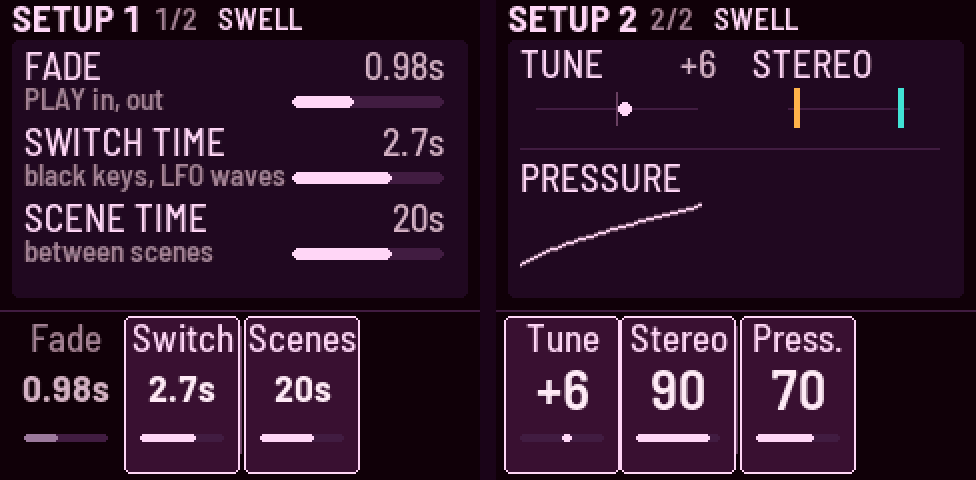
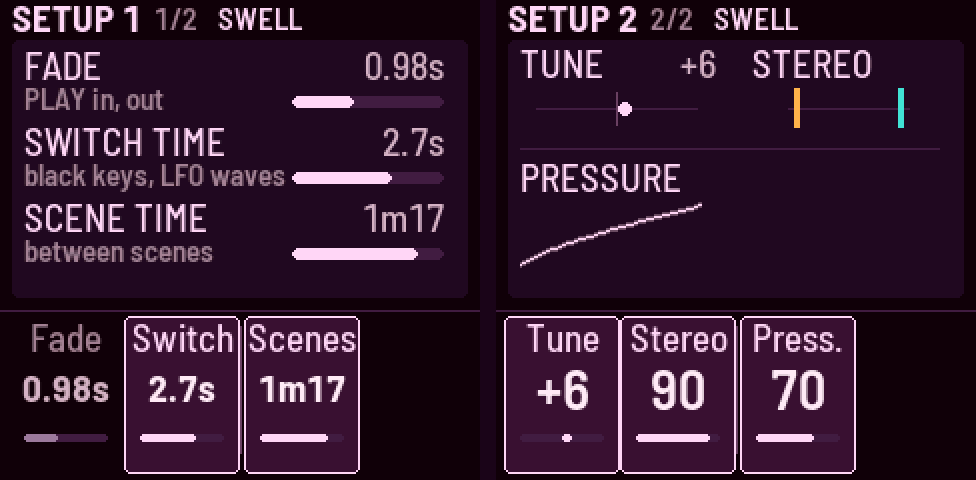
ARP as the other page buttons, the types go round, black keys during a scene
From Evan's notes testing #38 / #39 on the FM-1:
- ARP: a tap opens the Swell page, a tap there is the Swell on / off, a hold peeks (two quick taps
  are gone). The Swell page draws one bar, without "the swell, over two bars".
- The Delay and Reverb type knobs go round both ways, as the LFO waves do.
- Gesture time (PRESETS) turns as the speed it shows: right faster.
- Scene time starts at ~15 s (was ~4 s) on a new FM-1 or a reset.
- A black key pressed while a scene is on its way is the hand's, as a turned knob's value is: the
  scene used to rewrite it each frame until it landed.

Changed region(s): [[0.3689, 0.4062, 0.4611, 0.5625], [0.2459, 0.7812, 0.3689, 0.8438], [0.3074, 0.9062, 0.3381, 0.9375]]

diff --git a/web/emu/index.html b/web/emu/index.html
@@ -372,7 +372,7 @@ kbd { font: 500 .85em var(--mono); background: var(--card); border: 1px solid va
     <h3>Gestures <span class="g-sub">the top four white keys: several settings at once, on top of your sound</span></h3>
     <dl class="acts">
       <div><dt>Weight · Shift · Clean · Wash</dt><dd>The top four <span class="cap white">white keys</span>: hold to bring in, let go and it leaves as slowly as you held it; tap: all the way, to stay</dd></div>
-      <div><dt>Gesture time</dt><dd><span class="cap">PRESETS</span>: every gesture faster or slower, even while it moves</dd></div>
+      <div><dt>Gesture time</dt><dd><span class="cap">PRESETS</span>: every gesture faster (turn right) or slower (left), even while it moves</dd></div>
       <div><dt>Shift’s move</dt><dd><span class="cap">SEQ</span> twice (Pitch moves), <span class="cap">KNOB 1</span>: a fifth down to a fifth up</dd></div>
     </dl>
   </div>
@@ -478,7 +478,7 @@ kbd { font: 500 .85em var(--mono); background: var(--card); border: 1px solid va
       <div class="pblock">
         <div class="g-btn">ARP</div>
         <div class="pstack">
-        <p class="pnote combos lead"><span>Swell on · off: tap <span class="cap">ARP</span></span><span>See the Swell menu: tap <span class="cap">ARP</span> twice</span></p>
+        <p class="pnote combos lead"><span>See the Swell menu: tap <span class="cap">ARP</span></span><span>Swell on · off: tap <span class="cap">ARP</span> again</span></p>
         <div class="g-page"><i>Swell</i><span class="k both"><span class="sr">Knob 1: </span>Rate</span><span class="k both"><span class="sr">Knob 2: </span>Depth</span><span class="k both"><span class="sr">Knob 3: </span>Shape<small>swell → gate</small></span><span class="k both"><span class="sr">Knob 4: </span>Swing</span></div>
         </div>
       </div>
@@ -741,9 +741,9 @@ function hit(c, cls) {
 const TIP = { FX: "Delay: drive, time, repeats, mix (again: Reverb: length to Inf, damp, mix; again: Types: the delay's, the reverb's)", SEL: "Hold while turning: fine (pitch in cents, cutoff and resonance in tenths); with a top white key: a bank (A, B, C, Presets); with PLAY: drone II alone",
   ENV: "Tone 1: noise and its colour, white to pink (again: Life: character, feedback, age, drift); hold to peek", LFO: "LFO depths: each drone's osc and filter depth; the keys pick the routing (again: Mods: rate mod, mod by, X-mod amount, delay LFO)",
   EDIT: "Osc: X-Wave, pulse width (again: Sub · Drive: osc mix, drive); hold to peek", GLO: "Setup 1: fade, switch time, scene time (again: Setup 2: tune, stereo width, pressure)",
-  HOME: "Play 1: pitch, cutoff (again: Play 2: levels, resonance)", SAVE: "Save; hold it first, then tap a white key: store a scene (in bank A, B or C)", ARP: "Swell: tap on / off, hold to peek at its page, tap twice to stay on it", SEQ: "Partner: interval, detune (again: Pitch moves: Shift's move, pitch glide, Wander, its scale)",
+  HOME: "Play 1: pitch, cutoff (again: Play 2: levels, resonance)", SAVE: "Save; hold it first, then tap a white key: store a scene (in bank A, B or C)", ARP: "Swell: tap for its page, tap again there: on / off; hold to peek", SEQ: "Partner: interval, detune (again: Pitch moves: Shift's move, pitch glide, Wander, its scale)",
   PLAY: "Drones in / out (with SEL: drone II alone)", REC: "Motion loop: tap to record knob moves, again to loop, again to stop", "OCT-": "LFO Wave I: tap for the next shape (with SEL: the one before)", "OCT+": "LFO Wave II: tap for the next shape (with SEL: the one before)",
-  SELECT: "LFO rate", PRESETS: "Gesture time: every gesture faster or slower", ALGORITHM: "Movement: every LFO depth together",
+  SELECT: "LFO rate", PRESETS: "Gesture time: every gesture faster (right) or slower (left)", ALGORITHM: "Movement: every LFO depth together",
   KNOB1: "Drone I", KNOB2: "Drone I", KNOB3: "Drone II", KNOB4: "Drone II", MASTER: "Volume" };
 for (const [n, c] of [...Object.entries(buttons), ...Object.entries(knobs)]) if (TIP[n]) c.g.setAttribute("aria-description", TIP[n]);
 // the keys: the black ones as switches (and what they do on the LFO pages), the white ones as scenes

diff --git a/firmware/src/app/ui.c b/firmware/src/app/ui.c
@@ -82,7 +82,7 @@ static const struct {
     uint8_t btn, first, n;
 } PAGE_BTN[] = {{B_HOME, V_PLAY, 2}, {B_ENV, V_TONE, 2}, {B_EDIT, V_OSC, 2}, {B_LFO, V_LFO, 2},
                 {B_SEQ, V_PARTNER, 2}, {B_GLO, V_SETUP, 2}, {B_FX, V_FX, 3},
-                {B_ARP, V_PULSE, 1}};                                    /* ARP: a tap toggles */
+                {B_ARP, V_PULSE, 1}};                                    /* ARP: on its page, a tap toggles */
 #define NPAGE_BTN (sizeof PAGE_BTN / sizeof PAGE_BTN[0])
 #define HOLD_MS 400u                   /* a page button held this long (or a knob turned) is a peek */
 
@@ -143,8 +143,6 @@ static struct {
     uint32_t saved_t;                  /* the last autosave tried */
     int8_t save_q;                     /* a save waiting for the dip (playing): -2 none, -1 the sound, N scene N */
     uint32_t save_t;                   /* ... asked then */
-    uint32_t arp_t;                    /* the last ARP tap (two quick taps: stay on the Swell page) */
-    uint8_t arp_pend;                  /* ... its on / off still to come (if no second tap) */
     uint8_t page_last[8];              /* each page button's page last shown (0: its first): opened again there */
     uint32_t sel_t;                    /* when SEL went down (held 0.4 s: the black keys' map) */
     int8_t km_key;                     /* the black key touched while SEL is held (named, not switched), or -1 */
@@ -378,7 +376,13 @@ static void knob_turn(int i, int32_t e)
         pitch_turn(k.g, p, EN_K1 + i, e);
     else if (dr_param_info(p)->hi - dr_param_info(p)->lo > 24)
         cont_turn(p, EN_K1 + i, e);
-    else {
+    else if (p == P_DLY_TYPE || p == P_REV_TYPE) {     /* a type goes round both ways, as the LFO waves do (Evan,
+                                                        * 2026-10-25) */
+        const dr_param_t *in = dr_param_info(p);
+        int n = in->hi - in->lo + 1, v = (proj.par[p] - in->lo + (e > 0 ? 1 : -1)) % n;
+        param_set(p, in->lo + (v < 0 ? v + n : v));
+        loop_note(p, proj.par[p], 0);
+    } else {
         param_set(p, proj.par[p] + accel(EN_K1 + i, e, dr_param_info(p)->hi - dr_param_info(p)->lo));
         loop_note(p, proj.par[p], 0);
     }
@@ -426,7 +430,7 @@ static void link_set(int on)
     param_set(P_PLINK, on);
 }
 
-static void sw_toggle(sw_t w)
+static void sw_flip(sw_t w)
 {
     static const char *const DR[2] = {"I ", "II "};
     static const char *const WAVES[4] = {"OFF", "WAVE I", "WAVE II", "WAVES I+II"};
@@ -472,6 +476,21 @@ static void sw_toggle(sw_t w)
     say_c(a, st, w.s == S_LFORESET || w.s == S_DTAP ? RGB(183, 145, 255) : w.g ? RGB(69, 227, 211) : RGB(255, 176, 74));
 }
 
+static void hands_on(int p);
+
+/* a black key: what it changes is a hand's, as a turned knob's is, so a scene on its way leaves it alone (Evan,
+ * 2026-10-25: during a switch the Sub key showed its next step but held until the scene landed) */
+static void sw_toggle(sw_t w)
+{
+    static int16_t was[DR_NPARAMS];
+    int k;
+    memcpy(was, proj.par, sizeof was);
+    sw_flip(w);
+    for (k = 0; k < DR_NPARAMS; k++)
+        if (proj.par[k] != was[k])
+            hands_on(k);
+}
+
 /* ------------------------------------------------------------ buttons --- */
 static int on_pages(int i) { return ui.view >= PAGE_BTN[i].first && ui.view < PAGE_BTN[i].first + PAGE_BTN[i].n; }
 static void set_view(int v)
@@ -507,15 +526,6 @@ static void page_down(int b)
     if (!ui.hold_cycle)
         set_view(PAGE_BTN[i].first + (b == B_HOME ? 0 : ui.page_last[i]));
 }
-#define ARP_TAPS_MS 350u               /* two ARP taps this close: the Swell's page */
-static void arp_run(void)                              /* each frame: a lone ARP tap, once it's alone */
-{
-    if (ui.arp_pend && plat_ms() - ui.arp_t >= ARP_TAPS_MS) {
-        ui.arp_pend = 0;
-        param_set(P_PULSE, !proj.par[P_PULSE]);
-        say("SWELL", proj.par[P_PULSE] ? "ON" : "OFF");
-    }
-}
 /* let go: after a hold (or a knob turned while held), back where it was; after a tap, stay (or step on) */
 static void page_up(int b)
 {
@@ -523,23 +533,11 @@ static void page_up(int b)
     if (ui.hold_btn != b)
         return;
     peek = ui.hold_turned || plat_ms() - ui.hold_t >= HOLD_MS;
-    if (b == B_ARP) {                                  /* ARP: a tap is the pulse on / off; its page only */
-        if (!peek) {                                   /* a tap: the swell on / off, once no second tap */
-            uint32_t now = plat_ms();                  /* follows; two quick taps: its page, to stay, the */
-            if (ui.arp_pend && now - ui.arp_t < ARP_TAPS_MS) {   /* Swell untouched (the review: it dipped) */
-                ui.arp_pend = 0;
-                set_view(V_PULSE);
-                ui.hold_btn = -1;
-                say("SWELL", "PAGE");
-                return;
-            }
-            ui.arp_t = now;
-            ui.arp_pend = 1;                           /* arp_run switches it */
-        }
-        if (!ui.hold_cycle)
-            set_view(ui.hold_from);
-        ui.hold_btn = -1;
-        return;
+    if (b == B_ARP && !peek && ui.hold_cycle) {        /* ARP, as the other page buttons (Evan, 2026-10-24): a tap
+                                                        * opens the Swell page (landing never switches it), a tap
+                                                        * on it is the Swell on / off, a hold peeks */
+        param_set(P_PULSE, !proj.par[P_PULSE]);
+        say("SWELL", proj.par[P_PULSE] ? "ON" : "OFF");
     }
     if (peek) {
         if (!ui.hold_cycle)
@@ -1089,14 +1087,15 @@ static float mtime_k(void)                             /* GESTURE TIME: the gest
 {
     return fm_exp2f(((float)proj.mtime - 50.0f) * 0.0664386f);
 }
-static void mtime_turn(int32_t e)                      /* PRESETS: Gesture time */
+static void mtime_turn(int32_t e)                      /* PRESETS: Gesture time, shown as a speed (x0.1 .. x10):
+                                                        * right is faster (Evan, 2026-10-24) */
 {
-    int v = (int)proj.mtime + (int)e;
+    int v = (int)proj.mtime - (int)e;
     float k;
     char *q;
     proj.mtime = (uint8_t)(v < 0 ? 0 : v > 100 ? 100 : v);
     mark_dirty();
-    k = mtime_k();
+    k = 1.0f / mtime_k();
     scopy(ui.glab[0], "GESTURE TIME");
     q = ui.glab[1];
     *q++ = 'x';
@@ -1247,6 +1246,7 @@ static void input(void)
         } else if (w.s == S_LFORESET && (keys >> BLACK_K[i] & 1u) && !ui.rst_done &&
                    plat_ms() - ui.rst_t >= HOLD_MS + 100u) {
             int on = !proj.par[P_LFO_LOCK];            /* held: the LFO locked to the pulse's bars, or free */
+            hands_on(P_LFO_LOCK);
             param_set(P_LFO_LOCK, on);
             ui.scene_at = -1;
             if (on && !proj.par[P_PULSE])              /* (shorter: "LOCKED (SWELL OFF)" ran off the screen) */
@@ -1806,29 +1806,22 @@ static void pic_pulse(int32_t y0)
     uint16_t c = on ? K_PULSE : K_FAINT;
     char t[16];
     for (i = 0; i < n; i++)
-        y[i] = (int16_t)(top + h - (int32_t)(dr_pulse_wave(4.0f * (float)i / (float)(n - 1)) * (float)h));
+        y[i] = (int16_t)(top + h - (int32_t)(dr_pulse_wave(2.0f * (float)i / (float)(n - 1)) * (float)h));
     cv_rect(12, top + h, 208, 1, K_GRID);
-    for (i = 1; i < 4; i++)                    /* the beats */
-        cv_rect(12 + 52 * i, top, 1, h, K_GRID);
+    cv_rect(12 + 104, top, 1, h, K_GRID);      /* one bar, its two beats (Evan, 2026-10-24: two bars showed the
+                                                * same twice) */
     plot(12, 2, y, n, c);
-    if (on) {                                  /* now: a dot on the line, across both bars (it went over */
-        static float last;                     /* the first only, then jumped back) */
-        static uint8_t odd;
+    if (on) {                                  /* now: a dot on the line */
         float ph = dr_pulse_ph;
-        int32_t px, py;
-        if (ph < last - 1.0f)                  /* a new bar: the other half of the picture */
-            odd ^= 1u;
-        last = ph;
-        px = 12 + (int32_t)((ph + 2.0f * (float)odd) * 52.0f);
-        py = top + h - (int32_t)(dr_pulse_wave(ph) * (float)h);
+        int32_t px = 12 + (int32_t)(ph * 104.0f), py = top + h - (int32_t)(dr_pulse_wave(ph) * (float)h);
         cv_round(px - 3, py - 3, 7, 7, 3, K_TEXT);
     }
     dr_param_text(P_PULSE_RATE, proj.par[P_PULSE_RATE], t);
     cv_text(12, y0 + 3, &FONT_S, t, c);
     text_r(222, y0 + 3, on ? "ON" : "OFF", on ? K_PULSE : K_DIM);
-    text_c(120, y0 + PAN_H - 18, &FONT_S,
-           !on ? "tap ARP to start the swell" : proj.par[P_LFO_LOCK] ? "the LFO restarts each bar" : "the swell, over two bars",
-           proj.par[P_LFO_LOCK] && on ? K_LFO : K_DIM);
+    if (!on || proj.par[P_LFO_LOCK])
+        text_c(120, y0 + PAN_H - 18, &FONT_S, !on ? "tap ARP to start the swell" : "the LFO restarts each bar",
+               on ? K_LFO : K_DIM);
 }
 
 /* LFO: the routing as a picture. Each wave on the left (I above, II below: one cycle of its shape, a dot
@@ -2771,7 +2764,6 @@ void ui_frame(void)
     input();
     press_run();
     gesture_run();
-    arp_run();
     scene_morph();
     autosave();
     if (!ui.splash_done) {

diff --git a/firmware/src/dsp/drone.c b/firmware/src/dsp/drone.c
@@ -48,7 +48,7 @@ static const dr_param_t PARAMS[DR_NPARAMS] = {
     {"Time", 0, 100, 50}, {"Repeats", 0, 100, 50}, {"Dly mix", 0, 100, 25}, {"Rev mix", 0, 100, 35},
     {"Type", 0, DR_NREV - 1, 2}, {"Dly LFO", DR_LFO_I, DR_LFO_BOTH, DR_LFO_I}, {"Dly LFO", -100, 100, 20},
     {"LFO lock", 0, 1, 0}, {"Rate mod", -100, 100, 0}, {"Mod by", DR_LFO_I, DR_LFO_BOTH, DR_LFO_II},
-    {"Switch time", 0, 100, 47}, {"Scene time", 0, 100, 46}, {"II out", 0, 1, 0}, {"Speaker", 0, 100, 0},
+    {"Switch time", 0, 100, 47}, {"Scene time", 0, 100, 63}, {"II out", 0, 1, 0}, {"Speaker", 0, 100, 0},
     {"Pitch lock", 0, 1, 1}, {"Movement", 0, 100, 50}, {"Feedback", 0, 100, 0}, {"Character", 0, 100, 0},
     {"Wander", 0, 100, 0}, {"Age", 0, 100, 0}, {"Shift move", 0, 2 * DR_SHIFT_MID, 2 * DR_SHIFT_MID}, {"Scale", 0, DR_NWSCALE - 1, 0},
     {"D5 depth", 0, 100, 70}, {"E5 depth", 0, 100, 100}, {"F5 depth", 0, 100, 100}, {"G5 depth", 0, 100, 70},

diff --git a/README.md b/README.md
@@ -146,9 +146,9 @@ parts come in one after another, and go in their own order when you let go. Scen
   hold; **let go** and it goes, over as long as you held it (hold 2 s, it leaves in 2 s; hold 10 s, it drifts out
   over 10 s). **Tap** it (a press under half a second) and it goes all the way and stays; tap again and it goes. **SEL held as you let go** keeps
   it where it is. Its key glows dimly, and lights as it comes in.
-- **PRESETS is Gesture time**: it speeds up or slows down every gesture, coming in and going out, from 10 times faster
-  to 10 times slower (the middle: each gesture's own time: Weight 2.8 s, Shift 3.9 s, the others 3.3 s). Turn it
-  while a gesture moves to change it on the way.
+- **PRESETS is Gesture time**: it speeds up or slows down every gesture, coming in and going out: right is faster, up
+  to 10 times (x10), left slower, down to a tenth (x0.1). The middle is each gesture's own time: Weight 2.8 s, Shift
+  3.9 s, the others 3.3 s. Turn it while a gesture moves to change it on the way.
 - **The LFOs step aside**: while a gesture is in, the LFO that moves the same thing eases off (the filter LFO for
   Weight's cutoff, the oscillator LFO for Shift's pitch), so
   a high **Movement** doesn't wobble what the gesture is doing. **Wash** also eases the filter LFOs to a third, so
@@ -168,7 +168,7 @@ knob you're turning.
 | **OCT− / OCT+** | the LFO's **Wave I** / **Wave II**: tap for the next shape, round and round; **SEL + OCT** for the one before. Each light pulses with its wave |
 | **SAVE** | save the sound, at once. While the drone plays, the sound dips out and back over about 50 ms around the write; SAVE glows dimly while something isn't written yet |
 | **SEL** (hold) | fine: a pitch knob moves in single cents, cutoff and resonance in tenths |
-| **ARP** (tap) | the Swell on or off: both drones chopped in time, and the ARP light breathes with it. Hold ARP to peek at its page; tap twice quickly to stay on it (the Swell isn't touched then: a single tap switches it a moment later, once no second tap comes) |
+| **ARP** (tap) | the Swell page, as the other page buttons open theirs (landing on it switches nothing). On the page, a tap switches the Swell on or off: both drones chopped in time, and the ARP light breathes with it. Hold ARP to peek at the page from anywhere, to set the Swell before you start it |
 | **REC** | tap to record your knob moves, tap to loop them, tap to stop (up to 5 minutes, the time shown by REC in the top bar; all four knobs turning fast for minutes fills it sooner, and it starts looping there, "FULL"; each pass glides back to the start) |
 
 ### Pages
@@ -279,13 +279,13 @@ glides: a slow turn is a smooth sweep, never steps; turn faster to go further. T
 
 #### Swell · ARP
 
-<img src="docs/img/page-swell.png" width="244" alt="The Swell page: the swell's shape over two bars">
+<img src="docs/img/page-swell.png" width="244" alt="The Swell page: the swell's shape over a bar">
 
 | Page | KNOB 1 | KNOB 2 | KNOB 3 | KNOB 4 |
 |---|---|---|---|---|
 | Swell | rate | depth | shape | swing |
 
-- Tap ARP to start or stop the Swell; tap it twice to see this page.
+- Tap ARP for this page; tap it again here to start or stop the Swell. The picture shows a bar of it, and a dot where it is.
 - **The Swell** runs from a 33-second breath to a buzz (the starting sound has it on: a slow breath, 40 deep).
 - **Depth** is how far it dips, in dB (down to −30; all the way, silence). **Shape** firms the breath up into
   a pulse, and only at the top into a hard gate.
@@ -308,11 +308,12 @@ glides: a slow turn is a smooth sweep, never steps; turn faster to go further. T
   echoes come at three-quarters of the left's time), **Ping-pong** (the echoes bounce left and right),
   **Clean** (bright, with no wow, so a just-tuned drone stays still), **Grain** (Tape whose time its own echoes
   shake: grainy, metallic, wilder as they ring), **Self** (Tape whose time stretches as its echoes get louder: loud
-  echoes sag and wobble, and a runaway lurches). Changing type glides.
+  echoes sag and wobble, and a runaway lurches). Changing type crossfades the echoes, without bending their pitch.
+  The type knobs go round both ways: past Self comes Tape again.
 - **Time** is 70–450 ms, and turning it bends the echoes' pitch, as tape does. **Repeats** past about 85 runs
   away into self-oscillation ("runaway" on the screen), held by a soft clip.
 - **Reverb types**: **Room**, **Hall**, **Cathedral** (the largest), **Chorus hall** (a hall that shimmers).
-  They differ in size, distance and movement; changing type glides.
+  They differ in size, distance and movement; changing type crossfades, and the knob goes round both ways.
 - **Length** is how long the tail takes to die away, 0.3 to 40 seconds. At the top, **Inf**, it never does: a
   freeze. Press PLAY to stop and the freeze lets go, over about twice the Fade time.
 - **Damp** darkens the tail (out at Inf, so a freeze holds what's in it).
@@ -331,7 +332,7 @@ Everything on GLO belongs to the FM-1 and the room, not to a sound: scenes don't
 
 - **Fade** is how long PLAY takes (up to 60 s); **Switch time** is how long a black key or a new LFO wave (OCT) takes
   to move the sound to its new setting (0.02–30 s); **Scene time** is how long every scene move takes: a tap, a
-  crossfade pressed all the way in at once, and the way back (0.1 s to 5 minutes; about 4 s to start).
+  crossfade pressed all the way in at once, and the way back (0.1 s to 5 minutes; about 15 s to start).
 - **Tune** moves everything up or down by up to 50 cents. **Stereo** spreads the drones from mono to drone I
   left, drone II right.
 - **The speaker** gets a low cut (about 120 Hz) for the deep bass it can't play, so it doesn't waste its loudness

diff --git a/docs/decisions.md b/docs/decisions.md
@@ -366,3 +366,12 @@ at the end. The current state is in the [README](../README.md) and the code.
   headroom). Each oscillator has its own make-up under A1 (the largest after the filter, the others in at their share
   before it, so the filter's drive is hit no harder). Lower partner intervals were tried and left out: the sub clicks
   on any wave and stays in time.
+- 2026-10-25 (Evan, after testing 0.3 step 1 on the FM-1): a new **delay type** moves where it reads (the right side's
+  spread, the wow, Grain's and Self's moves) at once, each side read at both places for 50 ms and crossfaded; its tone,
+  output, ping-pong and gain still glide over 0.25 s (Tape to Wide had bent the right side's echoes 4-5 semitones over
+  0.25 s). The **Delay and Reverb type knobs go round** both ways, as the LFO waves do. **Gesture time** (PRESETS)
+  turns as a speed, right faster (shown x0.1-x10; saved values unchanged). **Scene time** starts at 63 (~15 s; was 46,
+  ~4 s; a room setting: only a new FM-1 or a reset gets it). **ARP** works as the other page buttons: a tap opens the
+  Swell page (switching nothing), a tap on the page is the Swell on / off, a hold peeks; the two-quick-taps rule is
+  gone. The Swell page draws one bar, without "the swell, over two bars". A **black key** pressed while a scene is on
+  its way is the hand's, as a turned knob's value is: the scene leaves it alone.
